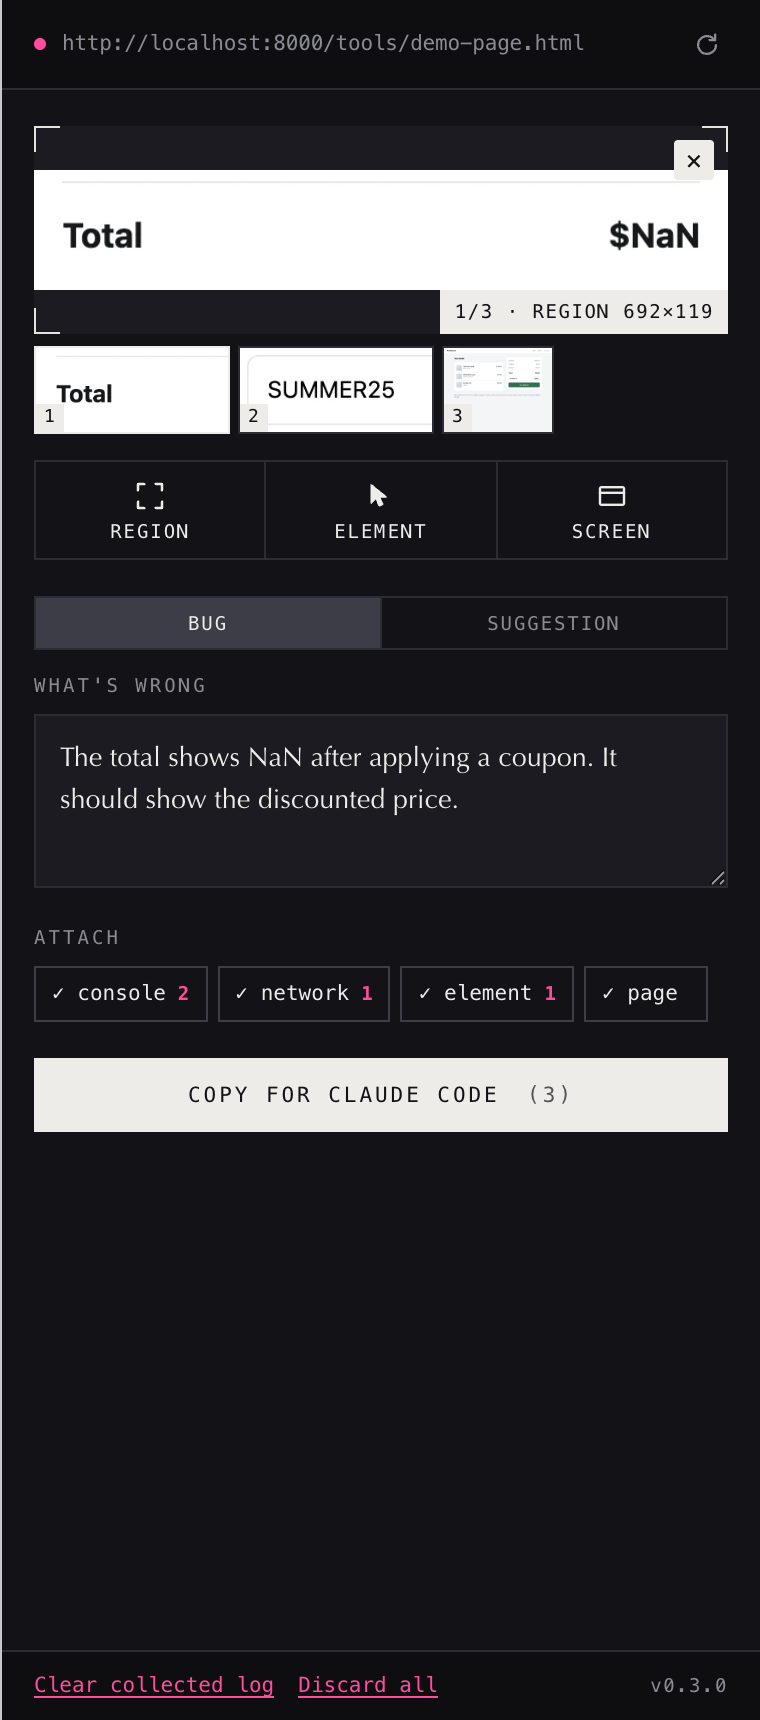
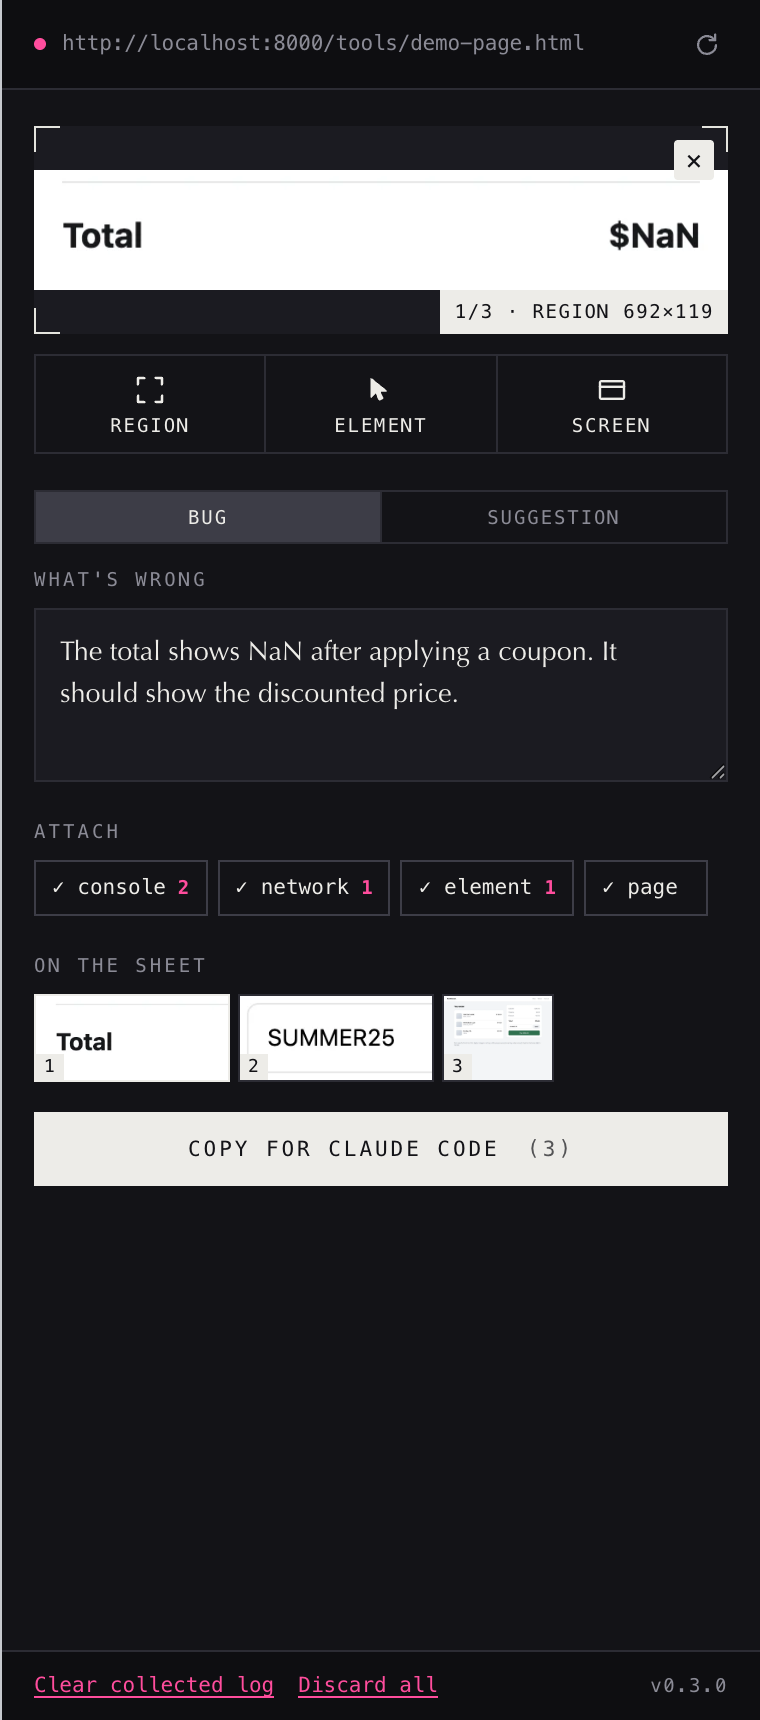
Move the sheet above the copy button, and read a sentence back on hover
The strip of thumbnails sat under the frame, where it read as part of the
viewfinder. It is really the manifest of what the next click sends, and it
belongs next to that click: attachments are listed above a send button,
not beside the preview. The frame keeps showing the selected item; the
strip now sits directly above Copy for Claude Code under an "On the sheet"
label, and is hidden with it when there is nothing on it.

Hovering a thumbnail shows the item's sentence where it is, in an ink block
like the gauge, with the number and capture mode above it in the readout
voice. An item with no sentence says so quietly. It is one element
positioned with fixed coordinates rather than a tooltip inside each
thumbnail, because the strip scrolls sideways and a scroll container clips
anything positioned inside it. The native title attribute would have done
the job with a second's delay and no control over the face; the sentence
is the human's own words and is set in the human voice, which makes this
the third place that face appears.

Keyboard focus opens it too, but only keyboard focus. A click focuses a
button as surely as Tab does, and after a click the strip is rebuilt and
the selected thumbnail refocused by script, which Chrome's :focus-visible
heuristic reported inconsistently; the tooltip stayed open until focus
moved on. The panel now records whether the last input was a key or a
pointer and decides from that. The sentence also rides in the thumbnail's
[…]

diff --git a/sidepanel/panel.js b/sidepanel/panel.js
@@ -87,7 +87,11 @@ const el = {
   previewImg: document.getElementById('preview-img'),
   previewClear: document.getElementById('preview-clear'),
   previewMeta: document.getElementById('preview-meta'),
+  sheet: document.getElementById('sheet'),
   strip: document.getElementById('strip'),
+  tip: document.getElementById('thumb-tip'),
+  tipHead: document.getElementById('thumb-tip-head'),
+  tipBody: document.getElementById('thumb-tip-body'),
 
   item: document.getElementById('item'),
   intentBug: document.getElementById('intent-bug'),
@@ -472,22 +476,73 @@ function renderFrame() {
   el.previewMeta.hidden = false;
 }
 
-/** What a screen reader gets for a thumbnail; the number alone says nothing. */
+/**
+ * What a screen reader gets for a thumbnail; the number alone says nothing.
+ * The sentence itself rides along, cut short, since the tooltip that shows it
+ * to a sighted user is not announced.
+ */
 function describeThumb(item, index) {
-  const status = item.missing
-    ? 'file missing'
-    : item.description.trim()
-      ? 'described'
-      : 'no description yet';
-  return `Item ${index + 1}, ${MODE_LABEL[item.mode].toLowerCase()}, ${status}`;
+  const head = `Item ${index + 1}, ${MODE_LABEL[item.mode].toLowerCase()}`;
+  if (item.missing) return `${head}, file missing`;
+  const words = item.description.trim();
+  if (!words) return `${head}, no description yet`;
+  return `${head}: ${words.length > 90 ? `${words.slice(0, 90)}…` : words}`;
 }
+
+/**
+ * Read an item's sentence back over its thumbnail.
+ *
+ * One element, positioned with fixed coordinates, because the strip scrolls
+ * and a scroll container clips anything positioned inside it. Above the
+ * thumbnail when there is room, which there always is now that the strip sits
+ * near the bottom of the panel; below it otherwise.
+ */
+function showTip(button, item, index) {
+  const words = item.description.trim();
+  el.tipHead.textContent = `${index + 1} · ${MODE_LABEL[item.mode]}${item.missing ? ' · FILE MISSING' : ''}`;
+  el.tipBody.textContent = words || 'No description yet.';
+  el.tipBody.classList.toggle('quiet', !words);
+
+  // Measure before placing: the text decides the size.
+  el.tip.style.visibility = 'hidden';
+  el.tip.hidden = false;
+  const size = el.tip.getBoundingClientRect();
+  const anchor = button.getBoundingClientRect();
+  const margin = 8;
+
+  const left = Math.max(margin, Math.min(anchor.left, window.innerWidth - size.width - margin));
+  const above = anchor.top - size.height - 6;
+  const top = above >= margin ? above : anchor.bottom + 6;
+
+  el.tip.style.left = `${Math.round(left)}px`;
+  el.tip.style.top = `${Math.round(top)}px`;
+  el.tip.style.visibility = '';
+}
+
+function hideTip() {
+  el.tip.hidden = true;
+}
+
+/**
+ * How focus last arrived: from a key or from a pointer.
+ *
+ * A click focuses a thumbnail as surely as Tab does, and renderStrip puts
+ * focus back on the rebuilt button afterwards. Browsers' own :focus-visible
+ * heuristic treats that scripted focus inconsistently, so the panel keeps its
+ * own answer: the tooltip opens on focus only when the last thing the user
+ * touched was the keyboard. Pointer users already have hover.
+ */
+let lastInput = 'keyboard';
+document.addEventListener('pointerdown', () => (lastInput = 'pointer'), true);
+document.addEventListener('keydown', () => (lastInput = 'keyboard'), true);
 
 function renderStrip() {
   // The rebuild destroys the button that has focus. Putting focus back on the
   // selected thumbnail keeps a keyboard user where they were.
   const hadFocus = el.strip.contains(document.activeElement);
+  hideTip();
 
-  el.strip.hidden = state.items.length === 0;
+  el.sheet.hidden = state.items.length === 0;
   el.strip.replaceChildren(
     ...state.items.map((item, index) => {
       const button = document.createElement('button');
@@ -498,7 +553,6 @@ function renderStrip() {
       button.classList.toggle('missing', Boolean(item.missing));
       button.setAttribute('aria-pressed', String(item.id === state.selectedId));
       button.setAttribute('aria-label', describeThumb(item, index));
-      button.title = `Item ${index + 1}`;
 
       const img = document.createElement('img');
       img.alt = '';
@@ -510,6 +564,17 @@ function renderStrip() {
 
       button.append(img, number);
       button.addEventListener('click', () => selectItem(item.id));
+      // Read live from the item, so a sentence typed after the strip was
+      // built shows up without a rebuild.
+      const show = () => showTip(button, item, state.items.indexOf(item));
+      button.addEventListener('mouseenter', show);
+      button.addEventListener('mouseleave', hideTip);
+      // A click focuses a button too, and would otherwise pin the tooltip
+      // open until focus moved on. Only keyboard focus earns it.
+      button.addEventListener('focus', () => {
+        if (lastInput === 'keyboard') show();
+      });
+      button.addEventListener('blur', hideTip);
       return button;
     })
   );
@@ -1295,6 +1360,11 @@ el.description.addEventListener('input', () => {
 
 el.submit.addEventListener('click', copyReport);
 el.refreshContext.addEventListener('click', refreshContext);
+
+// A tooltip pinned to a thumbnail that has scrolled away would float over
+// nothing; the strip and the panel both scroll under a hovering pointer.
+el.strip.addEventListener('scroll', hideTip, { passive: true });
+document.addEventListener('scroll', hideTip, { passive: true, capture: true });
 
 for (const toggle of [el.incConsole, el.incNetwork, el.incElement, el.incPage]) {
   toggle.addEventListener('change', persistSettings);

diff --git a/sidepanel/panel.css b/sidepanel/panel.css
@@ -6,9 +6,10 @@
  * design.
  *
  * 1. Two voices. Monospace is the PRIMARY voice, because everything the panel
- *    says is an instrument reading. A humanist face appears in exactly two
- *    places, and both are where the human speaks: the invitation to act, and
- *    the annotation field. Nowhere else.
+ *    says is an instrument reading. A humanist face appears in exactly three
+ *    places, and all are where the human speaks: the invitation to act, the
+ *    annotation field, and the tooltip that reads a sentence back. Nowhere
+ *    else.
  *
  * 2. One signal colour. Registration magenta means "marked for correction" and
  *    nothing else: an armed capture mode, a non-zero count, the marquee. Hard
@@ -369,14 +370,18 @@ main {
 
 /* ------------------------------------------------------------------ strip -- */
 
-/* The contact sheet. One frame per item, in capture order, scrolling sideways
-   rather than wrapping so the stage keeps a fixed height however long the
-   report gets. Thumbnails keep their own aspect ratio: a tall element crop and
-   a wide region should look as different here as they are. */
+/* The contact sheet, laid out right above the button that sends it. One frame
+   per item, in capture order, scrolling sideways rather than wrapping so the
+   row keeps a fixed height however long the report gets. Thumbnails keep their
+   own aspect ratio: a tall element crop and a wide region should look as
+   different here as they are. */
+.sheet {
+  margin-bottom: 12px;
+}
+
 .strip {
   display: flex;
   gap: 4px;
-  margin-top: 6px;
   padding-bottom: 3px;
   overflow-x: auto;
   scrollbar-width: thin;
@@ -449,6 +454,37 @@ main {
 
 .thumb.noted .thumb-n {
   background: var(--fg);
+}
+
+/* What a thumbnail says when hovered: an ink block like the gauge, carrying
+   the item's own sentence in the human voice. Positioned by panel.js. */
+.tip {
+  position: fixed;
+  z-index: 6;
+  max-width: 260px;
+  padding: 7px 9px 8px;
+  background: var(--fg);
+  color: var(--bg);
+  pointer-events: none;
+}
+
+.tip-head {
+  margin: 0 0 3px;
+  font: 500 9px/1.3 var(--mono);
+  letter-spacing: 0.1em;
+  text-transform: uppercase;
+  opacity: 0.7;
+}
+
+.tip-body {
+  margin: 0;
+  font: 12.5px/1.45 var(--human);
+  overflow-wrap: anywhere;
+}
+
+.tip-body.quiet {
+  font: 10.5px/1.45 var(--mono);
+  opacity: 0.7;
 }
 
 /* ------------------------------------------------------------------ modes -- */

diff --git a/sidepanel/panel.html b/sidepanel/panel.html
@@ -25,7 +25,8 @@
     <main>
       <!-- Signature element: the proof frame. Crop marks at the corners, a
            marching-ants marquee while a capture mode is armed. It shows the
-           selected item; the strip beneath it holds the rest of the sheet. -->
+           selected item; the strip above the copy button holds the rest of
+           the sheet. -->
       <section class="stage">
         <div class="frame" id="preview">
           <div class="frame-empty" id="preview-empty">
@@ -41,10 +42,6 @@
           </button>
           <p class="gauge" id="preview-meta" hidden></p>
         </div>
-
-        <!-- One thumbnail per item, in capture order. Clicking one brings it
-             into the frame and its description into the field below. -->
-        <div class="strip" id="strip" role="group" aria-label="Captured items" hidden></div>
 
         <div class="modes" role="group" aria-label="Capture mode">
           <button class="mode" id="mode-region" type="button">
@@ -127,6 +124,15 @@
       </section>
 
       <section>
+        <!-- The sheet, right above the button that sends it: one thumbnail per
+             item, in capture order. Clicking one brings it into the frame and
+             its description into the field; hovering one shows the
+             description where it is. -->
+        <div class="sheet" id="sheet" hidden>
+          <p class="key">On the sheet</p>
+          <div class="strip" id="strip" role="group" aria-label="Captured items"></div>
+        </div>
+
         <button class="send" id="submit" type="button" disabled>
           <span id="submit-label">Copy for Claude Code</span>
           <em class="send-count" id="submit-count" hidden></em>
@@ -144,6 +150,13 @@
         <pre class="proof" id="prompt-preview" hidden></pre>
       </section>
     </main>
+
+    <!-- The one tooltip. Lives outside the strip because the strip scrolls,
+         and a scroll container clips anything positioned inside it. -->
+    <div class="tip" id="thumb-tip" role="tooltip" hidden>
+      <p class="tip-head" id="thumb-tip-head"></p>
+      <p class="tip-body" id="thumb-tip-body"></p>
+    </div>
 
     <footer class="colophon">
       <div class="colophon-acts">

diff --git a/tools/panel-stage.html b/tools/panel-stage.html
@@ -226,7 +226,18 @@
           },
 
           async capture() {
-            if (typeof window.__pwCapture === 'function') return window.__pwCapture();
+            if (typeof window.__pwCapture === 'function') {
+              // The drawn pointer sits over the demo tab and an element
+              // screenshot would bake it into the capture, which Chrome's own
+              // captureVisibleTab never does. Hide it for the shot.
+              const shown = cursor.style.display;
+              cursor.style.display = 'none';
+              try {
+                return await window.__pwCapture();
+              } finally {
+                cursor.style.display = shown;
+              }
+            }
             const canvas = document.createElement('canvas');
             canvas.width = demo.clientWidth;
             canvas.height = demo.clientHeight;

diff --git a/README.md b/README.md
@@ -90,9 +90,9 @@ tool in one go.
 </tr>
 </table>
 
-Each capture lands in the frame and joins the strip of thumbnails under it. The screenshot is
-written to `~/Downloads/claude-punch-list/` at that moment, so the item has a real path from
-the start and there is nothing left to save later.
+Each capture lands in the frame and joins the sheet, a strip of thumbnails just above the
+copy button. The screenshot is written to `~/Downloads/claude-punch-list/` at that moment, so
+the item has a real path from the start and there is nothing left to save later.
 
 ### 2. Say what is wrong, or what should change
 
@@ -111,9 +111,10 @@ One sentence per item is usually enough, because the console output travels with
 </tr>
 </table>
 
-Click a thumbnail to bring that item back into the frame and its sentence back into the
-field. The number on a thumbnail stays dim until the item has a sentence, so a glance shows
-what still needs one. The × on the frame discards the item in it, and its file with it.
+Hover a thumbnail to read its sentence where it is; click it to bring that item back into the
+frame and its sentence back into the field. The number on a thumbnail stays dim until the
+item has a sentence, so a glance shows what still needs one. The × on the frame discards the
+item in it, and its file with it.
 
 Under the field, the **console** and **network** chips count what the page has produced so
 far, so a glance tells you whether it has thrown anything yet.
